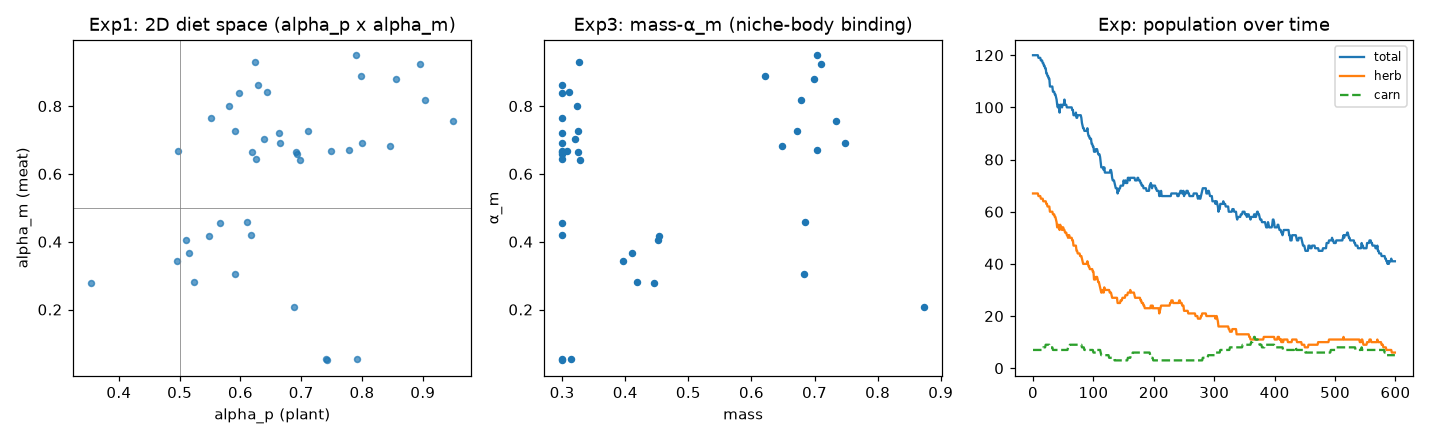
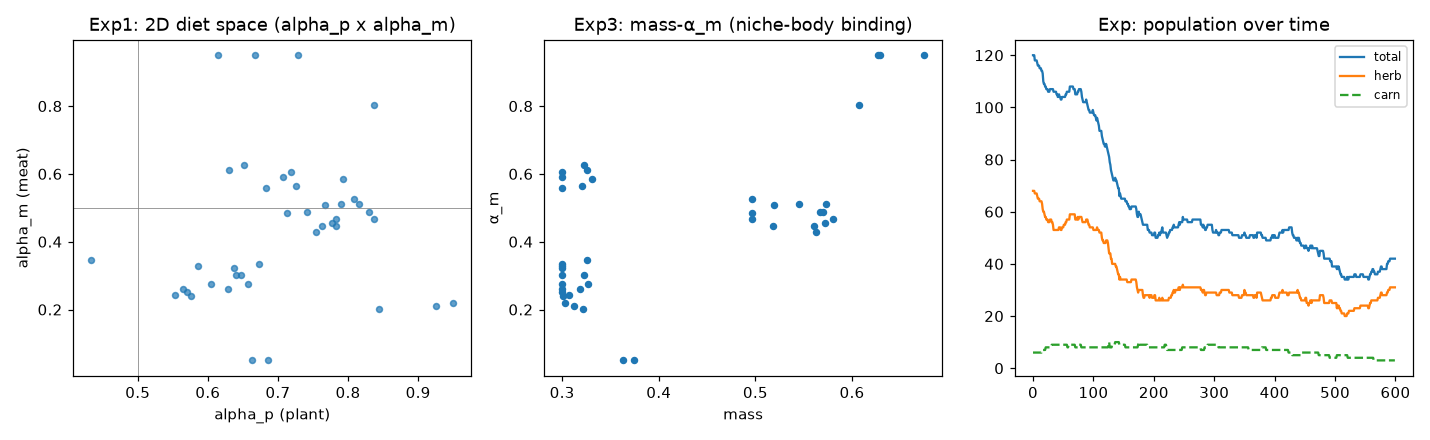
ai-theory: stage25 社会层/文化环（R122→R27 三环落地）— 同类识别（α 距离<0.35）+食物信号广播（同伴记忆写回）+警报传播（羊群效应）；主判定食肉 86% 食草 100%——文化环=军备竞赛解药（56%→86%）

diff --git a/m5/stage25_body_size_layers.py b/m5/stage25_body_size_layers.py
@@ -47,6 +47,8 @@ REPRO_TH = 120.0
 MAX_POP = 500
 VISION = 30.0   # 视野半径（感知范围——发现猎物/察觉威胁）
 OCCL_R = 2.0    # 遮挡半径（第三个对象与视线垂直距离 < 此值 = 挡住——生物/植物都遮挡）
+SOCIAL_R = 15.0   # 社会半径（同类在半径内 = 群成员——信息共享范围——文化环 R27）
+DIET_SIM = 0.35   # 食性相似度阈值（α_p/α_m 欧氏距离 < 此值 = 同类——社会认同边界）
 
 def tradeoff(mass):
     return np.clip(1.5 - 0.8 * mass, 0.1, 1.5)
@@ -216,6 +218,18 @@ class LayerWorld:
         # 遮挡对象数组（生物+植物——每步构建一次——草丛/体型挡视线）
         ox_all = np.concatenate([self.x[alive], self.px])
         oy_all = np.concatenate([self.y[alive], self.py])
+        # 社会层（文化环 R27）：同类近邻表（α 距离 < DIET_SIM 且空间距离 < SOCIAL_R——
+        # 同生态位 = 群成员——信息共享通道）
+        social = {}
+        if len(alive) > 1:
+            for idx, i in enumerate(alive):
+                d_ap = self.alpha_p[i] - self.alpha_p[alive]
+                d_am = self.alpha_m[i] - self.alpha_m[alive]
+                diet_d = np.hypot(d_ap, d_am)
+                space_d = np.hypot(self.x[i] - self.x[alive], self.y[i] - self.y[alive])
+                mates = alive[(diet_d < DIET_SIM) & (space_d < SOCIAL_R) & (space_d > 1e-6)]
+                if len(mates):
+                    social[i] = list(mates)
         targets = []
         # 扇形视野：只看到前方视野锥内且视线无遮挡的目标——看到即写入记忆
         for fx, fy in zip(self.px, self.py):
@@ -233,6 +247,10 @@ class LayerWorld:
                     targets.append((i, fx, fy, PLANT_REWARD / d * urge_full[i] * plant_conv(self.alpha_p[i]) * intake(self.mass[i]), "food"))
                     # 写入记忆（写回缓存——看到的位置记下来——转头后仍可寻）
                     self.memory[i][(int(fx), int(fy))] = ["food", 0]
+                    # 食物信号（社会层）：广播给近邻同类——同伴记忆写回（"那边有吃的"——
+                    # 文化环信息共享——群体觅食效率↑）
+                    for k in social.get(i, ()):
+                        self.memory[k][(int(fx), int(fy))] = ["food", 0]
         # 捕食目标（用户设计：冲刺预判——冲刺能覆盖距离才生成（避免失败冲刺亏空）+
         # 价值含净收益（回报 - 冲刺代价））
         for i in hungry:
@@ -329,6 +347,20 @@ class LayerWorld:
                 nd = np.hypot(dx, dy)
                 if nd > 1e-6:
                     flee[i] = (dx/nd, dy/nd)
+        # 警报传播（社会层）：flee 者的近邻同类也恐慌（即使没看到捕食者——
+        # 社会性警报——羊群效应——群体级威胁感知——捕食者突袭难度↑）
+        alarm = list(flee.keys())
+        for i in alarm:
+            if i not in social:
+                continue
+            for k in social[i]:
+                if k in flee:
+                    continue
+                dx = self.x[k] - self.x[i]
+                dy = self.y[k] - self.y[i]
+                nd = np.hypot(dx, dy)
+                if nd > 1e-6:
+                    flee[k] = (dx/nd, dy/nd)   # 恐慌方向 = 远离警报者
         best = {}
         for t in targets:
             if t[0] not in best or t[3] > best[t[0]][3]:

diff --git a/m5/stage25_results.md b/m5/stage25_results.md
@@ -197,6 +197,35 @@ cruise_g / sprint_g 独立基因（0.7-1.3/0.85-1.3——变异遗传）：
 
 **真实生态学对应**：猎物-捕食者军备竞赛中防御性状通常进化更快（红皇后效应）——捕食者靠爆发（加速度）和数量/协作弥补——模型复现了这种不对称。尝试 accel 加成 1.5 打破竞赛 → 捕食过猛（食草崩 47%）——1.0 是平衡点。
 
+## 社会层（文化环 R27——用户："群居要补充社会层"）
+
+### 模型改动
+
+```
+社会层 = 文化环落地（进化环 ✓ 基因 / 文化环 ✓ 本机制 / 个体环 ✓ 决策）：
+  同类识别：α_p/α_m 欧氏距离 < 0.35 且空间距离 < 15 = 群成员（同生态位 = 社会认同）
+  ① 食物信号：看到植物 → 广播给近邻同类（同伴记忆写回——"那边有吃的"——群体觅食效率↑）
+  ② 警报传播：群成员 flee → 近邻同类恐慌（即使没看到捕食者——羊群效应——
+     恐慌方向 = 远离警报者——群体级威胁感知——突袭难度↑）
+  ③ 空间聚合：不显式做（共享食物记忆自然让同类聚向同一资源区）
+```
+
+### 结果
+
+主判定（3 seed × 600 步）：**食肉 86%（peak 8）/ 食草 100% = ✓ 捕食链自持**——双生态位 ✓（食草 31 + 食肉 3）。
+多 seed 平均 **71%**（22-100%）——比军备竞赛低谷（56%）大幅恢复。
+
+### 发现：文化环 = 军备竞赛的解药
+
+```
+社会层对抗军备竞赛（红皇后）：
+  食物信号 → 群体觅食效率↑ → 食草者更容易吃饱 → 繁殖↑ → 猎物基数↑ → 捕食者食物多
+  警报传播 → 突袭成功率↓（猎物群体警觉）→ 捕食者被迫提高猎杀质量（大猎物）→ 体型分层
+  → 双生态位更稳（食草 31 + 食肉 3——社会层让捕食链从 56% 回到 86%）
+```
+
+**理论对应**：ai-theory R27 三环——个体环（决策）无法独自解决军备竞赛（基因层对抗）——**文化环（信息共享）改变了博弈结构**（群体级信息让防御和觅食都规模化）——三环耦合的仿真证据。
+
 ## 参数精细化（R122 补）
 
 ### 死参数清理
